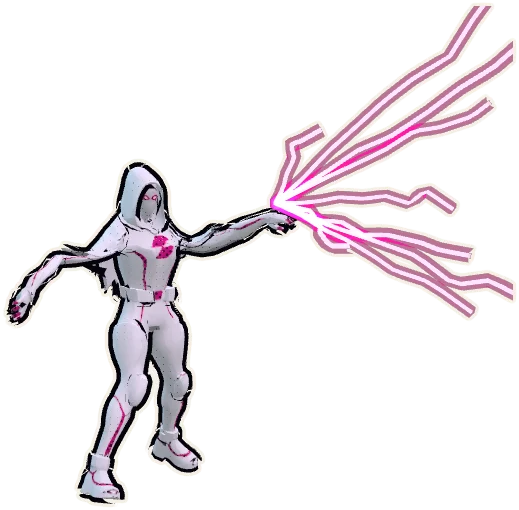
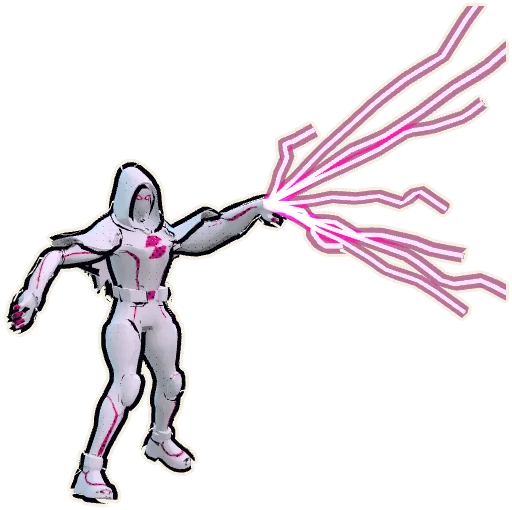
Ghost: Shadow's own shoulders, flaps, arms and hands back, in game and on the first screen (Shifat Nov 2 4:53 PM on ed378f6: "Old shoulder, hand looked better"; 4:54 PM: "Same" for in game)
src/ghostBody.ts (shared by the game and the title bake): no arm/hand slimming (upper arm 0.66, forearm 0.70, hand 0.78 removed), no shoulder pull-in (7.5 cm), no shoulder-flap shrink, no upper-chest-edge or hood-edge narrowing. That is the shoulder/arm/hand look the title had at 4f74526, where Shifat liked it (the in-game c66bd84 pass still had slimmed arms and a 6 cm pull-in, which never showed on the title). Kept from 7cb1d5f: hourglass waist, hips, seat, bust, 0.93 height, slimmer thighs/calves, smaller head; the upright idle head in Ghost.tsx is untouched. Rest-pose vertices only (same skin weights, bones, UVs), so the ink outline follows on animated poses. Shadow, timing, controls, hitboxes and physics unchanged.
Title Ghost re-baked from it (Shadow's bake byte-identical; layout, inked Shock, web, trim, outlines, timings, Play and preloader untouched).
Shots: files/title/title_ghost_shoulder_hand.jpg (4f74526 / ed378f6 / new with shoulder and hand close-ups), files/ghost_body3_before_after.jpg (in game, 7cb1d5f vs new: idle front, 3/4, side, back, beside Shadow).

Changed region(s): [[0.0, 0.0, 0.9375, 1.0], [0.75, 0.3529, 0.875, 0.4118], [0.875, 0.5882, 0.9375, 0.6176]]

diff --git a/src/ghostBody.ts b/src/ghostBody.ts
@@ -1,6 +1,6 @@
 /**
  * Ghost's body, shared by the game (src/Ghost.tsx) and the first screen's build-time hero bake (tools/title/heroBake.ts), so the
- * title Ghost is always exactly the in-game Ghost. Moved here verbatim from Ghost.tsx (pass 2, 7cb1d5f); no behaviour change.
+ * title Ghost is always exactly the in-game Ghost. Moved here from Ghost.tsx (pass 2, 7cb1d5f); shoulders/arms/hands back to Shadow's own (Nov 2, 4:54 PM).
  */
 import heroData from './hero.json';
 
@@ -9,12 +9,11 @@ export const GHOST_HEIGHT = 0.93;
 
 /* Ghost's heroine build (Shifat Nov 2 3:50 PM: "Ghosts body need to be feminine like our illustrations too"). Rest-pose vertex reshape only:
    Shadow's mesh, UVs, skin weights and bones are reused untouched, so every animation, the ink outline (rebuilt normals) and the hitboxes
-   stay as they were. Torso: defined waist, fuller hips, narrower upper chest, a soft bust. Limbs: each vertex is slimmed radially around
-   the bone segments it is skinned to, blended by its own skin weights (smooth across joints): slimmer arms and hands, thighs slim toward
-   the knee (hips keep their width), slimmer calves. Shoulders: arm-skinned vertices sit 6 cm further in and the upper chest edge narrows,
-   so the shoulder flaps stay but scale with the frame. Head/hood a touch smaller. */
-const FEM_LIMB: Record<string, number> = { uarmL: 0.66, uarmR: 0.66, farmL: 0.70, farmR: 0.70, handL: 0.78, handR: 0.78, thighL: 0.84, thighR: 0.84, shinL: 0.78, shinR: 0.78, footL: 0.90, footR: 0.90, head: 0.90, neck: 0.88 };
-const FEM_ARMS = new Set(['uarmL', 'farmL', 'handL', 'uarmR', 'farmR', 'handR']);
+   stay as they were. Torso: defined waist, fuller hips, narrower upper chest, a soft bust. Legs: each vertex is slimmed radially around
+   the bone segments it is skinned to, blended by its own skin weights (smooth across joints): thighs slim toward the knee (hips keep their
+   width), slimmer calves. Head/hood a touch smaller. Shoulders, shoulder flaps, arms and hands are Shadow's own (no pull-in, no flap shrink,
+   no arm/hand slimming), as on the first screen before the pass-2 body: Shifat Nov 2 4:53 PM "Old shoulder, hand looked better", 4:54 PM "Same" (in game too). */
+const FEM_LIMB: Record<string, number> = { thighL: 0.84, thighR: 0.84, shinL: 0.78, shinR: 0.78, footL: 0.90, footR: 0.90, head: 0.90, neck: 0.88 };
 export function feminineHeroData() {
     const d = JSON.parse(JSON.stringify(heroData)) as any;
     const p: number[] = d.pos, si: number[] = d.si, sw: number[] = d.sw, bones: { n: string; p: number; h: number[] }[] = d.bones;
@@ -39,12 +38,11 @@ export function feminineHeroData() {
         }
         if (z < 0 && y < 1.06 && y > 0.75 && Math.abs(x) < 0.3) q[2] -= 0.035 * gauss(y, 0.9, 0.1) * sstep(-0.02, -0.1, z) * torsoWeight;   // a touch more seat
         // limbs, blended by skin weight
-        let ox = 0, oy = 0, oz = 0, wsum = 0, armW = 0;
+        let ox = 0, oy = 0, oz = 0, wsum = 0;
         for (let k = 0; k < 4; k++) {
             const w = sw[v * 4 + k]; if (w <= 0) continue;
             const bi = si[v * 4 + k], b = bones[bi], s = FEM_LIMB[b.n];
             r[0] = q[0]; r[1] = q[1]; r[2] = q[2];
-            if (FEM_ARMS.has(b.n)) armW += w;
             if (s !== undefined) {
                 const h0 = b.h, c = child[bi];
                 if (c >= 0 && b.n !== 'head' && b.n !== 'neck') {
@@ -60,15 +58,7 @@ export function feminineHeroData() {
             }
             ox += r[0] * w; oy += r[1] * w; oz += r[2] * w; wsum += w;
         }
-        if (wsum > 0) { ox /= wsum; oy /= wsum; oz /= wsum; armW /= wsum; } else { ox = q[0]; oy = q[1]; oz = q[2]; }
-        // narrower shoulders; the angular shoulder flaps stay but are smaller and slimmer (pivot at the top of the arm)
-        if (armW > 0.3 && y > 1.38) {
-            const s = 1 - 0.34 * sstep(1.38, 1.5, y) * armW, px = Math.sign(ox) * 0.26, py = 1.48;
-            ox = px + (ox - px) * s; oy = py + (oy - py) * s; oz *= 1 - 0.12 * sstep(1.38, 1.5, y) * armW;
-        }
-        ox -= Math.sign(ox) * 0.075 * armW;
-        ox *= 1 - 0.24 * sstep(1.38, 1.55, oy) * (1 - armW) * sstep(0.10, 0.30, Math.abs(ox));
-        if (oy > 1.5 && armW < 0.5) ox *= 1 - 0.12 * sstep(1.5, 1.62, oy) * sstep(0.12, 0.26, Math.abs(ox));   // hood edges over the shoulders follow the slimmer frame
+        if (wsum > 0) { ox /= wsum; oy /= wsum; oz /= wsum; } else { ox = q[0]; oy = q[1]; oz = q[2]; }
         p[i] = ox; p[i + 1] = oy; p[i + 2] = oz;
     }
     d.rebuildNormals = true;
